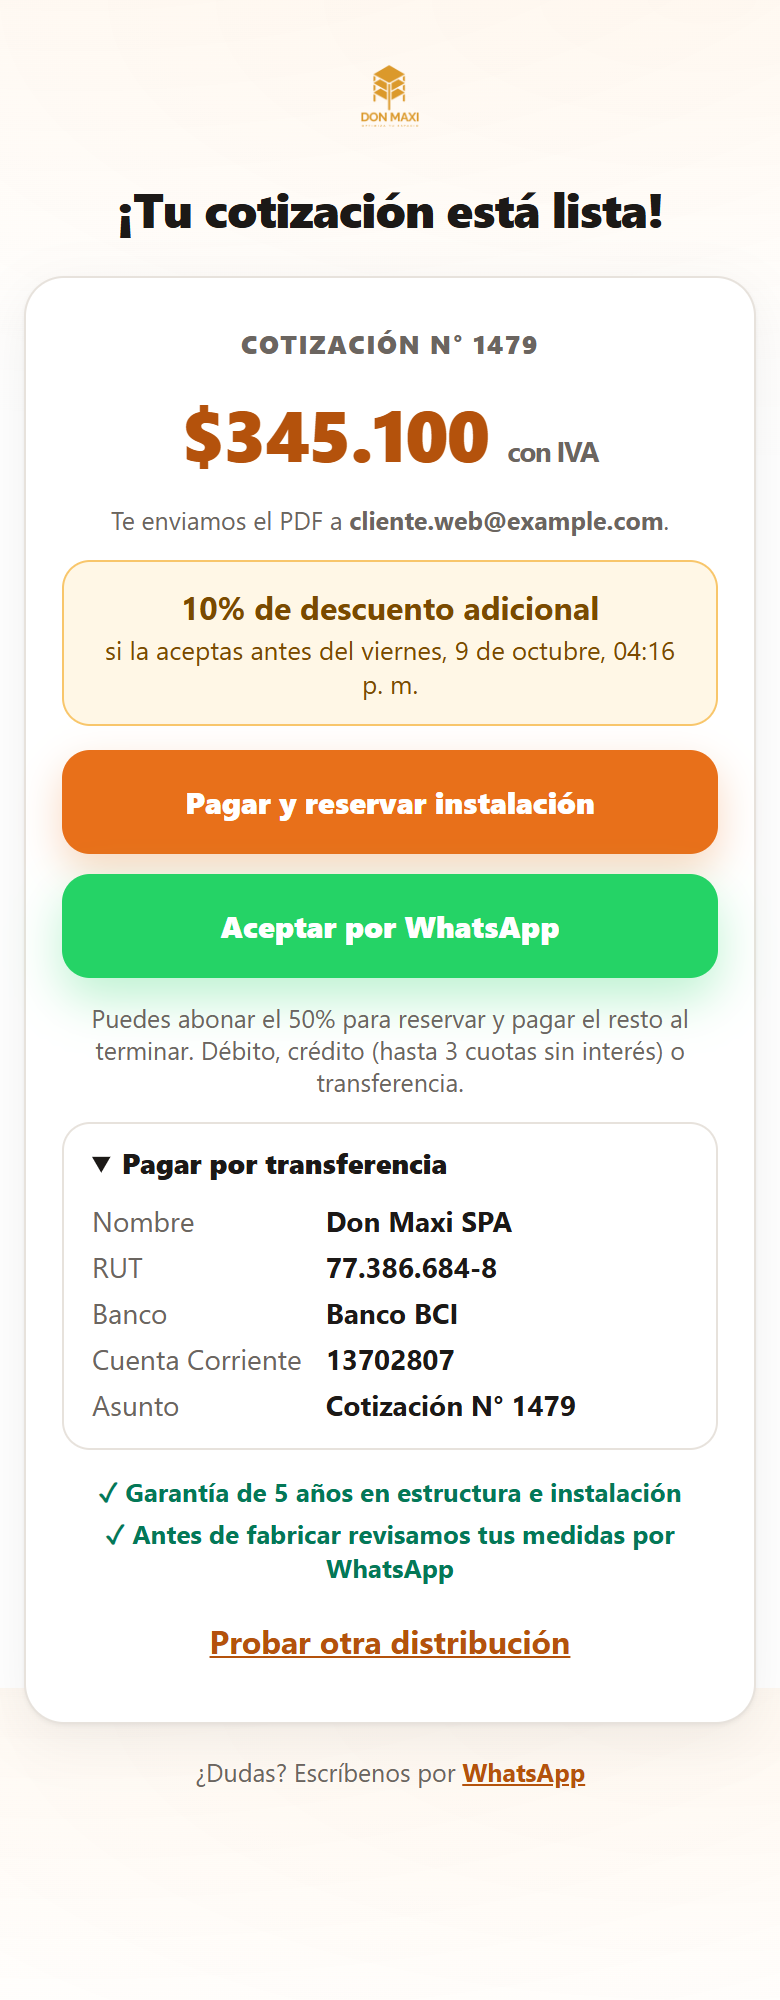
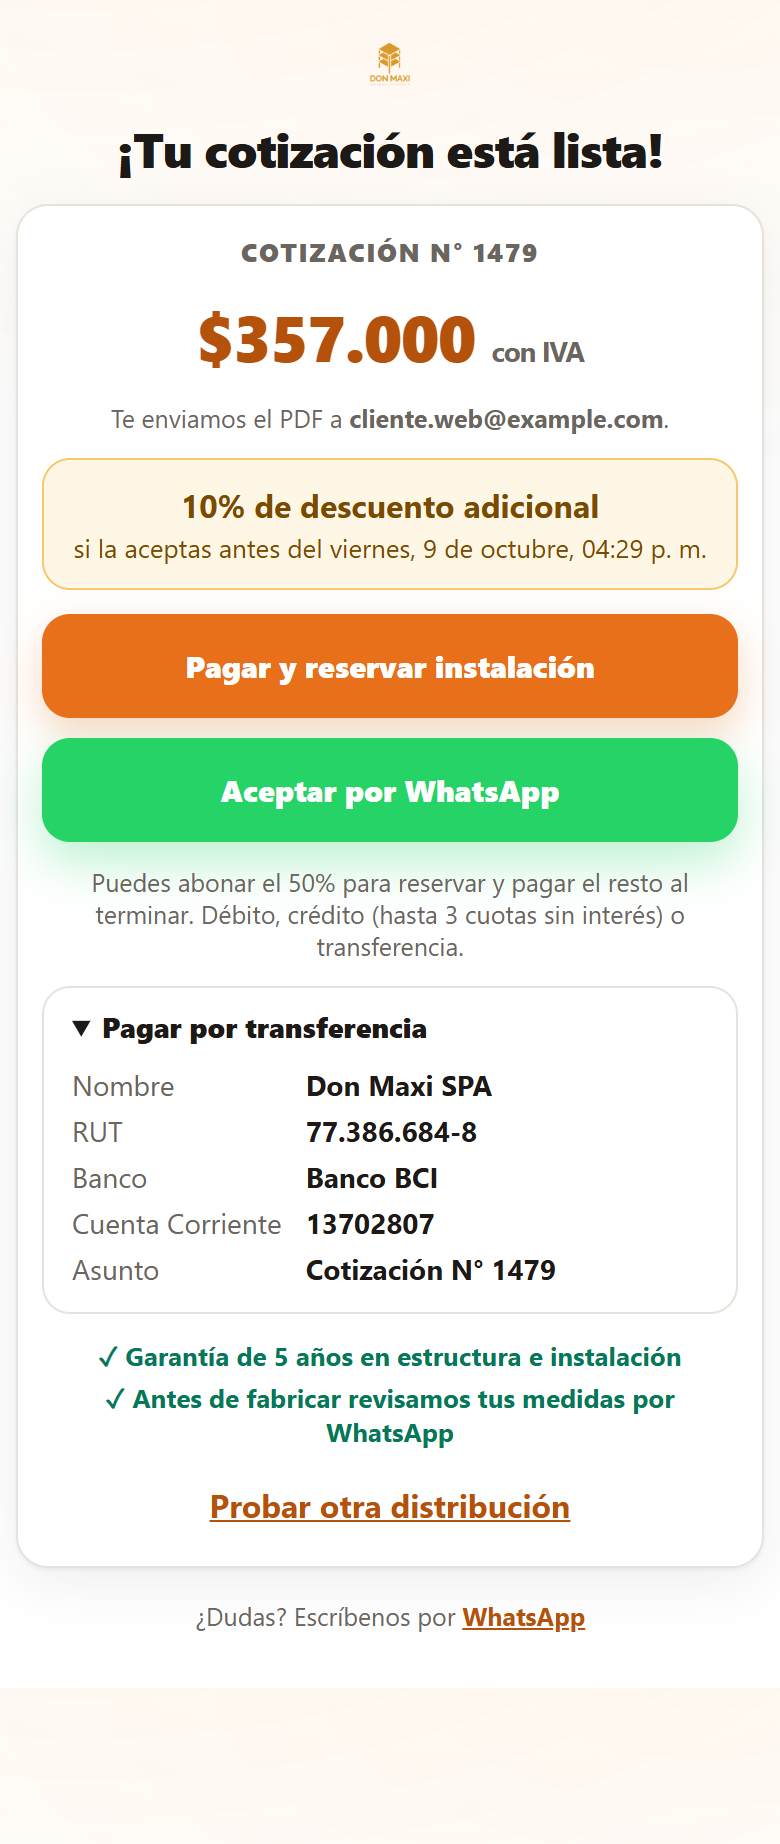
fix(cotiza): vista movil mas compacta y prueba E2E sin recortes
- Encabezado mas bajo y configurador casi de borde a borde en celular.
- La prueba E2E espera los muros cubiertos completos.

Changed region(s): [[0.0308, 0.0, 0.9846, 0.8346], [0.2462, 0.8655, 0.7692, 0.8964]]

diff --git a/src/cotiza.css b/src/cotiza.css
@@ -60,6 +60,17 @@
   padding:10px 16px calc(10px + env(safe-area-inset-bottom));background:#fff;border-top:1px solid var(--borde);box-shadow:0 -8px 24px rgba(0,0,0,.08)}
 .ctz-barra div{display:grid}.ctz-barra small{font-size:11px;color:var(--suave)}.ctz-barra strong{font-size:20px;color:var(--acento-osc)}
 .ctz-barra .ctz-boton{width:auto;min-height:44px;font-size:14px}
+/* Celular: encabezado mas bajo y el configurador casi de borde a borde, para darle ancho al 3D. */
+@media (max-width:520px){
+  .ctz{padding:10px 8px 96px}
+  .ctz-hero{margin:0 0 12px}
+  .ctz-logo{height:44px;margin-bottom:4px}
+  .ctz-hero h1{font-size:24px}
+  .ctz-hero p{font-size:14px}
+  .ctz-tarjeta{border-radius:16px;padding:14px 12px}
+  .ctz-configurador{padding:6px}
+  .ctz-listo-total{font-size:32px}
+}
 @media (min-width:760px){
   .ctz-form{grid-template-columns:1fr 1fr}
   .ctz-form .ctz-boton,.ctz-form .ctz-nota,.ctz-form .ctz-error{grid-column:1 / -1}
